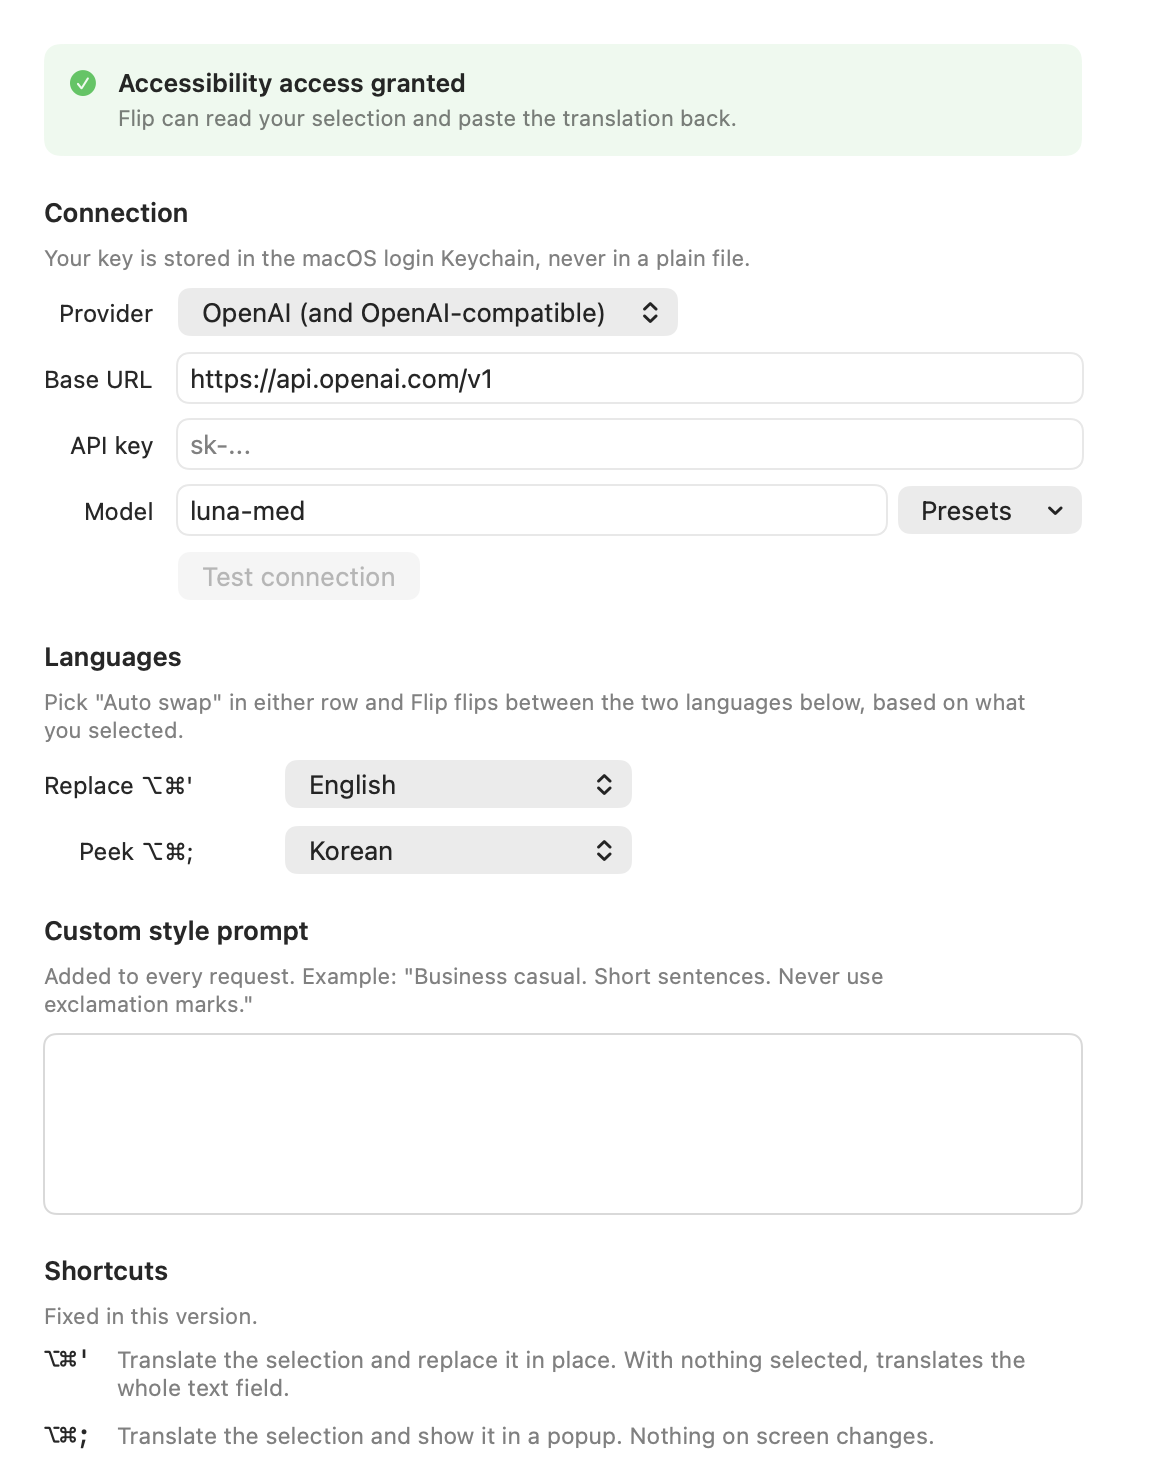
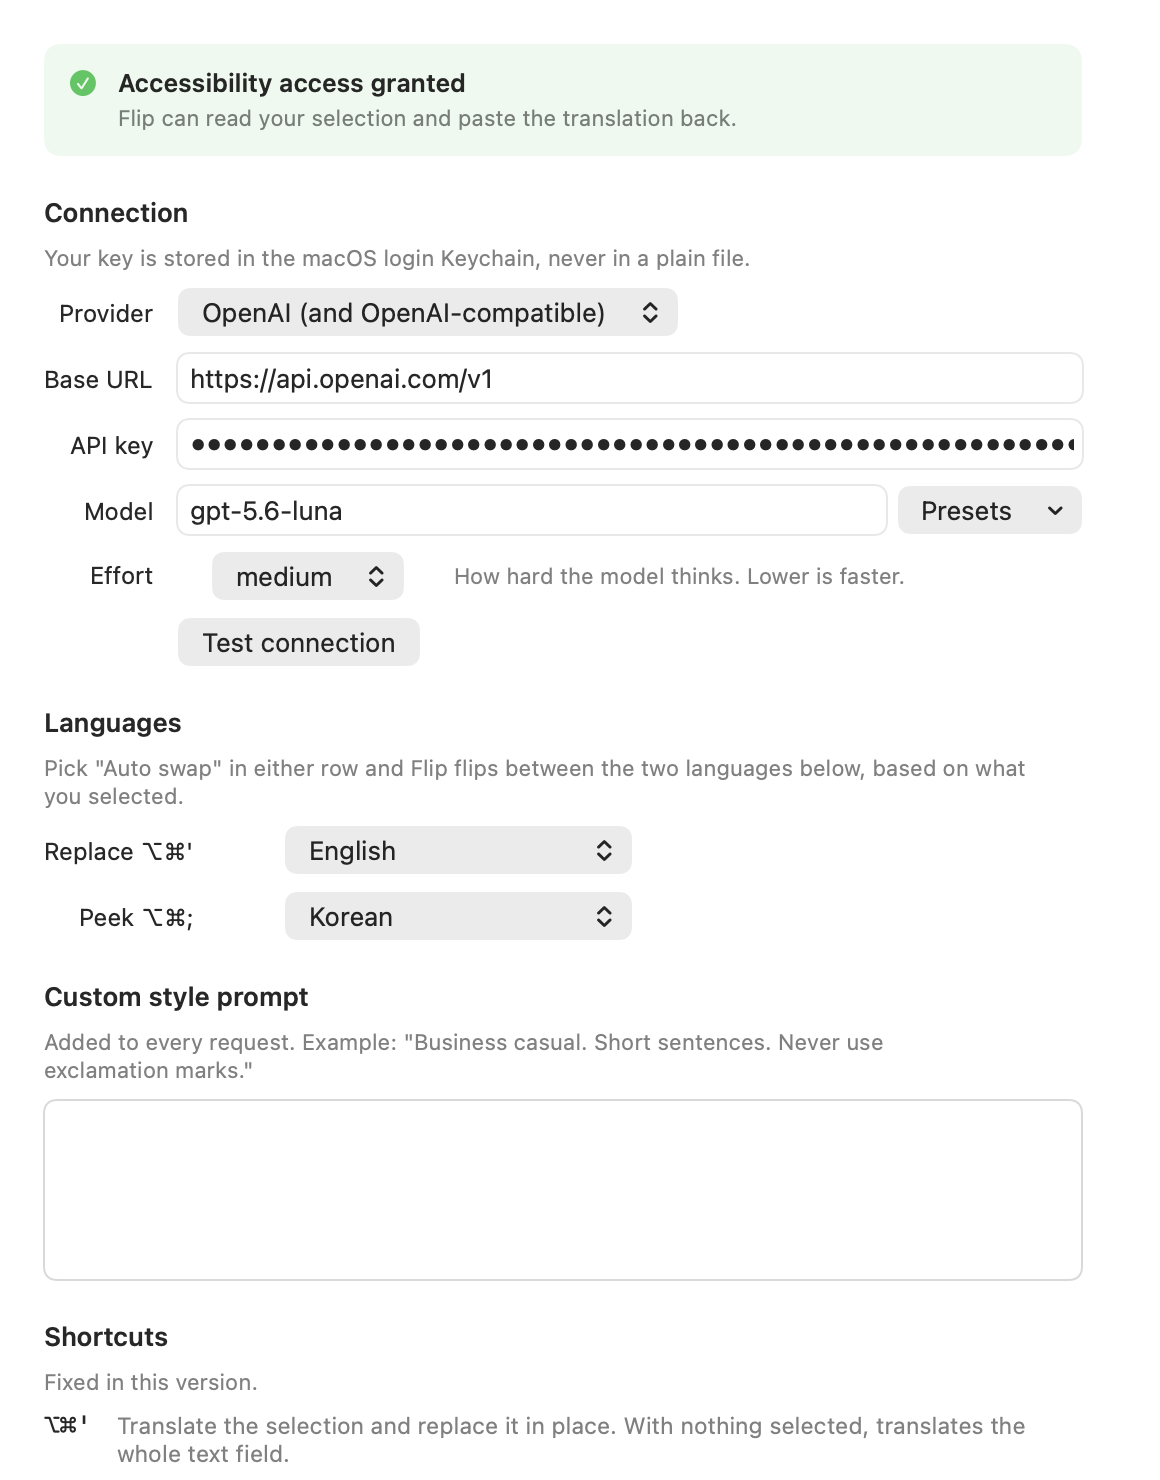
Add a main menu, and make reasoning effort a setting
Two fixes from using it.

Command+V did nothing in the API key field while right click, paste
worked. A menu bar app has no main menu, and macOS routes the standard
editing shortcuts through it; the context menu goes straight to the field
instead. Adds an app, Edit and Window menu carrying the usual selectors.

"luna-med" was gpt-5.6-luna at medium effort, not a model id, and the API
returns 404 for it. The model default is now gpt-5.6-luna and effort is
its own setting, sent as reasoning_effort to OpenAI and
output_config.effort to Anthropic, defaulting to medium. A model that
takes no effort parameter rejects the whole request, so that case retries
without it. Verified minimal, medium and high all accepted by
gpt-5.6-luna.

Claude-Session: https://claude.ai/code/session_01Su9CcH2ateCoK1pLTpdZ8Z

diff --git a/Sources/Flip/AppDelegate.swift b/Sources/Flip/AppDelegate.swift
@@ -14,6 +14,7 @@ final class AppDelegate: NSObject, NSApplicationDelegate, NSWindowDelegate {
     // MARK: - Lifecycle
 
     func applicationDidFinishLaunching(_ notification: Notification) {
+        buildMainMenu()
         buildStatusItem()
 
         HotkeyManager.shared.register(id: 1, combo: HotkeyManager.replaceCombo) { [weak self] in
@@ -45,6 +46,53 @@ final class AppDelegate: NSObject, NSApplicationDelegate, NSWindowDelegate {
         if !TextAccess.hasAccessibilityPermission() || Settings.shared.apiKey.isEmpty {
             openSettings()
         }
+    }
+
+    // MARK: - Main menu
+
+    /// A menu bar app has no main menu by default, and macOS routes the standard editing
+    /// shortcuts through it. Without an Edit menu, command+V does nothing in the API key
+    /// field even though right click, paste works, because that uses the field's own
+    /// context menu. These items carry no code: the responder chain handles the selectors.
+    private func buildMainMenu() {
+        let main = NSMenu()
+
+        let appItem = NSMenuItem()
+        let appMenu = NSMenu()
+        appMenu.addItem(withTitle: "Settings...", action: #selector(openSettings), keyEquivalent: ",").target = self
+        appMenu.addItem(withTitle: "History...", action: #selector(openHistory), keyEquivalent: "y").target = self
+        appMenu.addItem(.separator())
+        appMenu.addItem(withTitle: "Hide Flip", action: #selector(NSApplication.hide(_:)), keyEquivalent: "h")
+        appMenu.addItem(withTitle: "Quit Flip", action: #selector(NSApplication.terminate(_:)), keyEquivalent: "q")
+        appItem.submenu = appMenu
+        main.addItem(appItem)
+
+        let editItem = NSMenuItem()
+        let editMenu = NSMenu(title: "Edit")
+        editMenu.addItem(withTitle: "Undo", action: Selector(("undo:")), keyEquivalent: "z")
+        editMenu.addItem(withTitle: "Redo", action: Selector(("redo:")), keyEquivalent: "Z")
+        editMenu.addItem(.separator())
+        editMenu.addItem(withTitle: "Cut", action: #selector(NSText.cut(_:)), keyEquivalent: "x")
+        editMenu.addItem(withTitle: "Copy", action: #selector(NSText.copy(_:)), keyEquivalent: "c")
+        editMenu.addItem(withTitle: "Paste", action: #selector(NSText.paste(_:)), keyEquivalent: "v")
+        let pasteMatch = NSMenuItem(title: "Paste and Match Style",
+                                    action: #selector(NSTextView.pasteAsPlainText(_:)), keyEquivalent: "V")
+        pasteMatch.keyEquivalentModifierMask = [.command, .option, .shift]
+        editMenu.addItem(pasteMatch)
+        editMenu.addItem(withTitle: "Delete", action: #selector(NSText.delete(_:)), keyEquivalent: "")
+        editMenu.addItem(withTitle: "Select All", action: #selector(NSText.selectAll(_:)), keyEquivalent: "a")
+        editItem.submenu = editMenu
+        main.addItem(editItem)
+
+        let windowItem = NSMenuItem()
+        let windowMenu = NSMenu(title: "Window")
+        windowMenu.addItem(withTitle: "Close", action: #selector(NSWindow.performClose(_:)), keyEquivalent: "w")
+        windowMenu.addItem(withTitle: "Minimize", action: #selector(NSWindow.performMiniaturize(_:)), keyEquivalent: "m")
+        windowItem.submenu = windowMenu
+        main.addItem(windowItem)
+        NSApp.windowsMenu = windowMenu
+
+        NSApp.mainMenu = main
     }
 
     // MARK: - Menu bar

diff --git a/Sources/Flip/Settings.swift b/Sources/Flip/Settings.swift
@@ -23,9 +23,18 @@ enum Provider: String, CaseIterable, Codable, Identifiable {
         }
     }
 
+    /// Reasoning effort. Both providers take one, under different names, and both reject
+    /// values a given model does not support, so this is a plain list plus an opt out.
+    var effortLevels: [String] {
+        switch self {
+        case .openai: return [Settings.effortUnset, "minimal", "low", "medium", "high"]
+        case .anthropic: return [Settings.effortUnset, "low", "medium", "high", "xhigh", "max"]
+        }
+    }
+
     var suggestedModels: [String] {
         switch self {
-        case .openai: return ["luna-med", "gpt-5.6-luna", "gpt-5.6-terra", "gpt-5.6-sol"]
+        case .openai: return ["gpt-5.6-luna", "gpt-5.6-terra", "gpt-5.6-sol", "gpt-5.5"]
         case .anthropic: return ["claude-opus-5", "claude-sonnet-5", "claude-haiku-4-5"]
         }
     }
@@ -63,6 +72,8 @@ final class Settings: ObservableObject {
     @Published var provider: Provider { didSet { defaults.set(provider.rawValue, forKey: "provider") } }
     @Published var baseURL: String { didSet { defaults.set(baseURL, forKey: "baseURL") } }
     @Published var model: String { didSet { defaults.set(model, forKey: "model") } }
+    /// Sent as `reasoning_effort` to OpenAI and as `output_config.effort` to Anthropic.
+    @Published var effort: String { didSet { defaults.set(effort, forKey: "effort") } }
 
     /// Target language for the replace shortcut (option+command+apostrophe).
     @Published var replaceLanguage: String { didSet { defaults.set(replaceLanguage, forKey: "replaceLanguage") } }
@@ -74,6 +85,8 @@ final class Settings: ObservableObject {
 
     /// Stored in the login Keychain, never in UserDefaults.
     @Published var apiKey: String { didSet { Keychain.set(Settings.sanitize(apiKey), account: keychainAccount) } }
+
+    static let effortUnset = "Not set"
 
     private var keychainAccount: String { "apiKey.\(provider.rawValue)" }
 
@@ -92,7 +105,8 @@ final class Settings: ObservableObject {
         let p = Provider(rawValue: defaults.string(forKey: "provider") ?? "") ?? .openai
         provider = p
         baseURL = defaults.string(forKey: "baseURL") ?? p.defaultBaseURL
-        model = defaults.string(forKey: "model") ?? "luna-med"
+        model = defaults.string(forKey: "model") ?? "gpt-5.6-luna"
+        effort = defaults.string(forKey: "effort") ?? "medium"
         replaceLanguage = defaults.string(forKey: "replaceLanguage") ?? "English"
         peekLanguage = defaults.string(forKey: "peekLanguage") ?? "Korean"
         stylePrompt = defaults.string(forKey: "stylePrompt") ?? ""
@@ -107,6 +121,9 @@ final class Settings: ObservableObject {
         apiKey = Settings.sanitize(Keychain.get(account: "apiKey.\(newProvider.rawValue)") ?? "")
         if !newProvider.suggestedModels.contains(model) {
             model = newProvider.suggestedModels[0]
+        }
+        if !newProvider.effortLevels.contains(effort) {
+            effort = Settings.effortUnset
         }
     }
 

diff --git a/Sources/Flip/Translator.swift b/Sources/Flip/Translator.swift
@@ -144,19 +144,36 @@ enum Translator {
     // MARK: - OpenAI and OpenAI-compatible
 
     private static func callOpenAI(system: String, user: String, settings: Settings) async throws -> String {
+        do {
+            return try await openAIRequest(system: system, user: user, settings: settings, withEffort: true)
+        } catch TranslatorError.http(400, let detail) {
+            // Models that take no reasoning effort reject the whole request rather than
+            // ignoring the field.
+            guard detail.lowercased().contains("reasoning_effort") else {
+                throw TranslatorError.http(400, detail)
+            }
+            return try await openAIRequest(system: system, user: user, settings: settings, withEffort: false)
+        }
+    }
+
+    private static func openAIRequest(system: String, user: String, settings: Settings,
+                                      withEffort: Bool) async throws -> String {
         var request = URLRequest(url: try endpoint(settings.baseURL, "/chat/completions"))
         request.httpMethod = "POST"
         request.timeoutInterval = 60
         request.setValue("application/json", forHTTPHeaderField: "Content-Type")
         request.setValue("Bearer \(settings.usableAPIKey)", forHTTPHeaderField: "Authorization")
 
-        let body: [String: Any] = [
+        var body: [String: Any] = [
             "model": settings.model,
             "messages": [
                 ["role": "system", "content": system],
                 ["role": "user", "content": user]
             ]
         ]
+        if withEffort, settings.effort != Settings.effortUnset {
+            body["reasoning_effort"] = settings.effort
+        }
         request.httpBody = try JSONSerialization.data(withJSONObject: body)
 
         let json = try await send(request)
@@ -202,9 +219,11 @@ enum Translator {
             "system": system,
             "messages": [["role": "user", "content": user]]
         ]
+        if settings.effort != Settings.effortUnset {
+            // Lower effort keeps a keystroke-latency tool fast while leaving thinking on.
+            body["output_config"] = ["effort": settings.effort]
+        }
         if useFallbacks {
-            // Effort low keeps a keystroke-latency tool fast while leaving adaptive thinking on.
-            body["output_config"] = ["effort": "low"]
             // Server-side fallbacks: if a safety classifier declines the text, Anthropic reroutes
             // by refusal category instead of handing back an unusable response.
             body["fallbacks"] = "default"

diff --git a/Sources/Flip/SettingsView.swift b/Sources/Flip/SettingsView.swift
@@ -103,6 +103,19 @@ struct SettingsView: View {
                     }
                 }
                 GridRow {
+                    label("Effort")
+                    HStack(spacing: 8) {
+                        Picker("", selection: $settings.effort) {
+                            ForEach(settings.provider.effortLevels, id: \.self) { Text($0).tag($0) }
+                        }
+                        .labelsHidden()
+                        .frame(width: 130)
+                        Text("How hard the model thinks. Lower is faster.")
+                            .font(.system(size: 11)).foregroundStyle(.secondary)
+                        Spacer(minLength: 0)
+                    }
+                }
+                GridRow {
                     Color.clear.frame(width: 1, height: 1)
                     HStack(spacing: 9) {
                         Button("Test connection") { runTest() }

diff --git a/README.md b/README.md
@@ -50,7 +50,8 @@ It puts a self-signed certificate called "Flip Dev" in your login Keychain and s
 
 - **Provider** — OpenAI (or anything that speaks the OpenAI chat completions format) or Anthropic.
 - **Base URL** — prefilled per provider; change it to point at a compatible gateway.
-- **Model** — free text, with presets per provider. Default is `luna-med`.
+- **Model** — free text, with presets per provider. Default is `gpt-5.6-luna`.
+- **Effort** — how hard the model thinks. Sent as `reasoning_effort` to OpenAI and as `output_config.effort` to Anthropic. Default `medium`. If a model does not accept one, Flip retries without it rather than failing.
 - **Replace shortcut translates into** — default English.
 - **Peek shortcut translates into** — default Korean.
 - **Auto swap** — pick this in either list and the app flips between your two configured languages based on what you selected.
